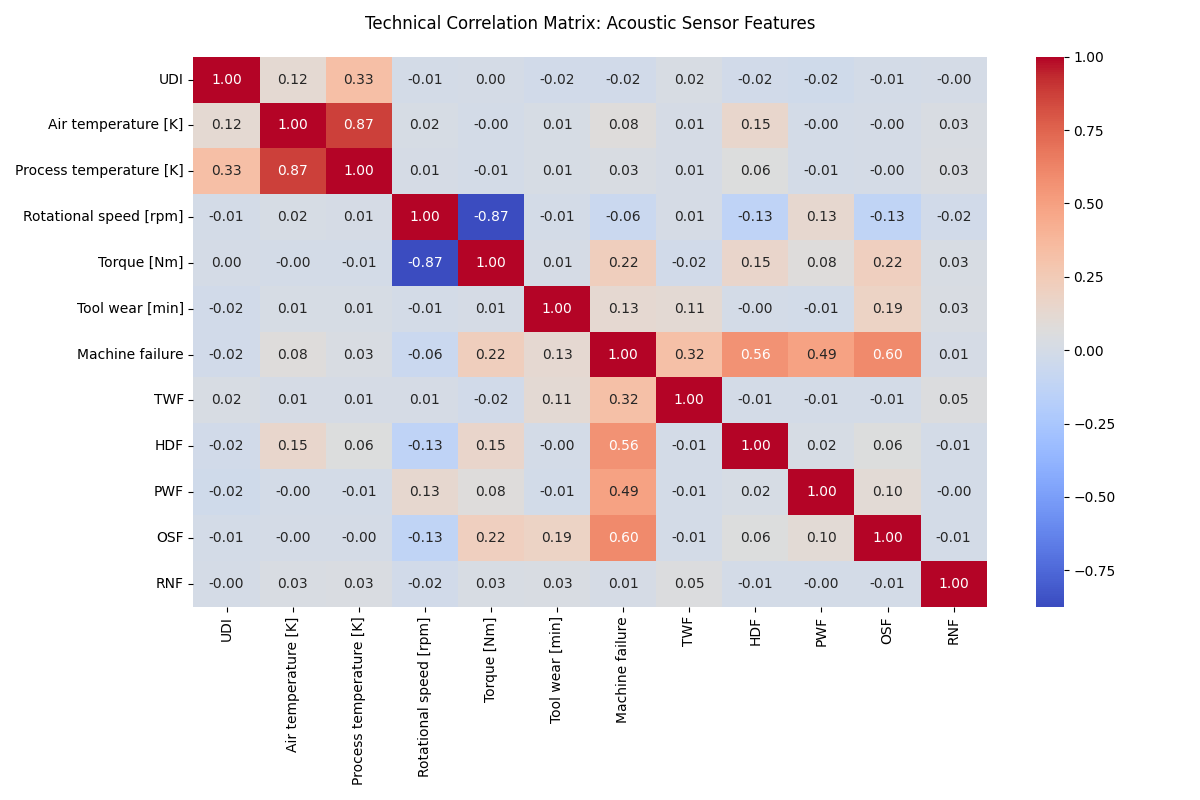
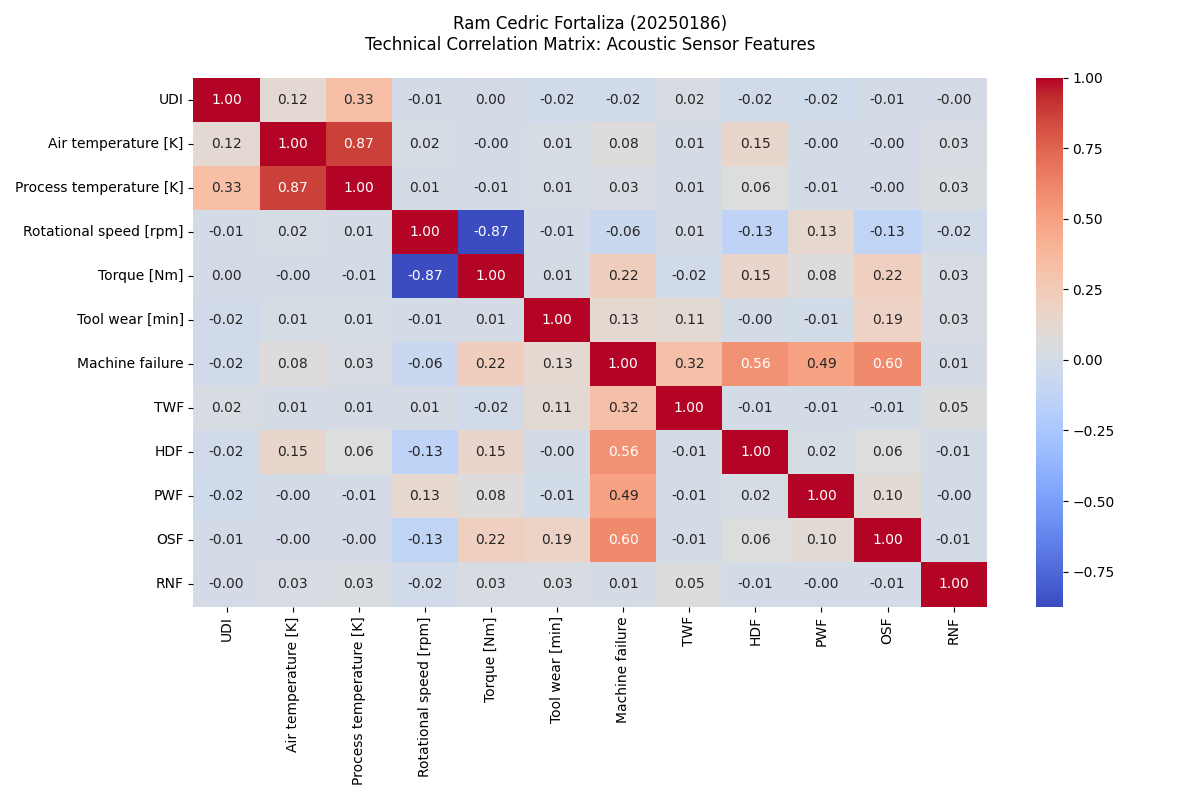
AIM-02_EDS_20250186_Fortaliza - Submission

diff --git a/main.py b/main.py
@@ -51,7 +51,7 @@ def create_visuals(df):
 
         plt.figure(figsize=(12, 8))
         sns.heatmap(df.corr(numeric_only=True), annot=True, cmap='coolwarm', fmt=".2f")
-        plt.title("Technical Correlation Matrix: Acoustic Sensor Features", pad=20)
+        plt.title("Ram Cedric Fortaliza (20250186)\nTechnical Correlation Matrix: Acoustic Sensor Features", pad=20)
         plt.tight_layout()
         plt.savefig("outputs/heatmap.png")
         plt.close()
@@ -59,7 +59,7 @@ def create_visuals(df):
         plt.figure(figsize=(12, 7))
         sensor_cols = ['Air temperature [K]', 'Process temperature [K]', 'Rotational speed [rpm]', 'Torque [Nm]']
         sns.boxplot(data=df[sensor_cols])
-        plt.title("Boxplot Analysis: Sensor Range & Outlier Identification", pad=20)
+        plt.title("Ram Cedric Fortaliza (20250186)\nBoxplot Analysis: Sensor Range & Outlier Identification", pad=20)
         plt.xticks(rotation=45, ha='right')
         plt.xlabel("Physical Measurement Parameters")
         plt.ylabel("Measurement Amplitude")
@@ -69,7 +69,7 @@ def create_visuals(df):
 
         plt.figure(figsize=(10, 6))
         sns.kdeplot(data=df, x="Torque [Nm]", hue="Machine failure", fill=True)
-        plt.title("Probability Density: Torque Distribution (Normal vs. Failure)", pad=15)
+        plt.title("Ram Cedric Fortaliza (20250186)\nProbability Density: Torque Distribution (Normal vs. Failure)", pad=20)
         plt.xlabel("Applied Torque [Nm]")
         plt.ylabel("Kernel Density Estimate")
         plt.tight_layout()
@@ -78,7 +78,7 @@ def create_visuals(df):
         
         plt.figure(figsize=(10,6))
         plt.hist(df["Torque [Nm]"], bins=20)
-        plt.title("Torque Distribution Histogram")
+        plt.title("Ram Cedric Fortaliza (20250186)\nTorque Distribution Histogram", pad=20)
         plt.xlabel("Torque [Nm]")
         plt.ylabel("Frequency")
         plt.tight_layout()
@@ -90,7 +90,7 @@ def create_visuals(df):
         line1, = ax1.plot([], [], color='red', lw=2)
         ax1.set_xlim(0, 100)
         ax1.set_ylim(y_torque.min()-5, y_torque.max()+5)
-        ax1.set_title("Time-Series Telemetry: Torque Variability")
+        ax1.set_title("Ram Cedric Fortaliza (20250186)\nTime-Series Telemetry: Torque Variability", pad=20)
         ax1.set_xlabel("Time Step (T)")
         ax1.set_ylabel("Torque Magnitude [Nm]")
         plt.tight_layout()
@@ -106,7 +106,7 @@ def create_visuals(df):
         line2, = ax2.plot([], [], color='blue', lw=2)
         ax2.set_xlim(0, 100)
         ax2.set_ylim(y_speed.min()-50, y_speed.max()+50)
-        ax2.set_title("Time-Series Telemetry: Rotational Velocity")
+        ax2.set_title("Ram Cedric Fortaliza (20250186)\nTime-Series Telemetry: Rotational Velocity", pad=20)
         ax2.set_xlabel("Time Step (T)")
         ax2.set_ylabel("Speed [rpm]")
         plt.tight_layout()

diff --git a/README.md b/README.md
@@ -4,7 +4,7 @@
 Engineering Data Systems Final Project
 
 ## Dataset
-Machine Failure Predictions Dataset from Kaggle
+Machine Failure Predictions Dataset from Kaggle. Thapa, S. (2025).
 
 ## Features
 - Data Cleaning
